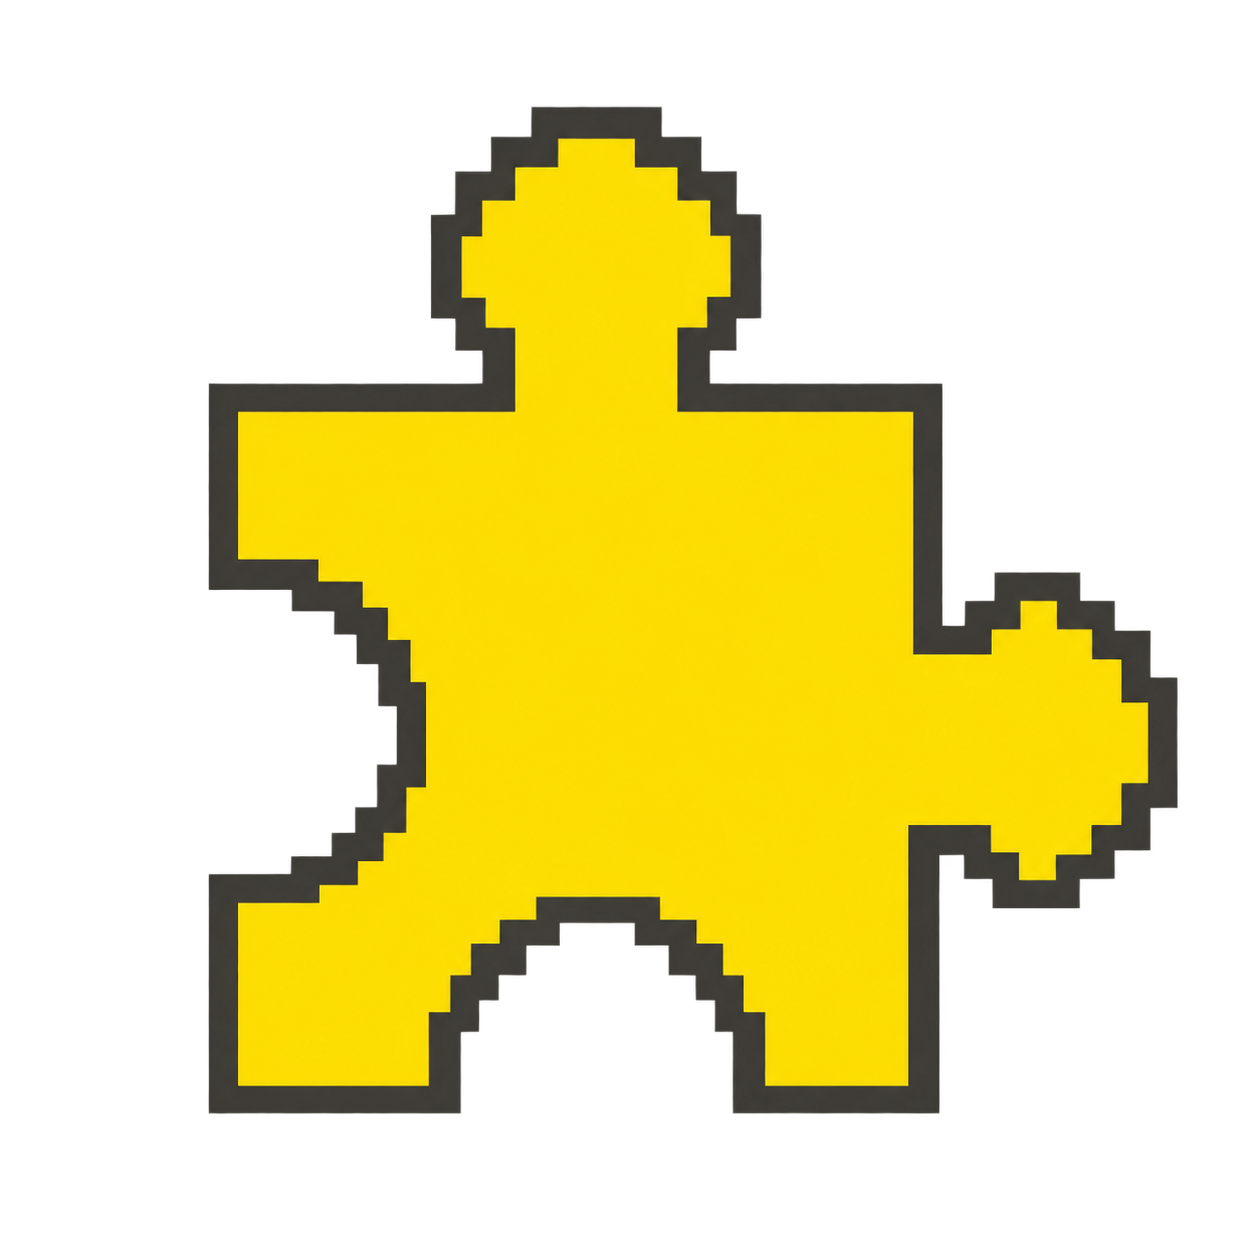
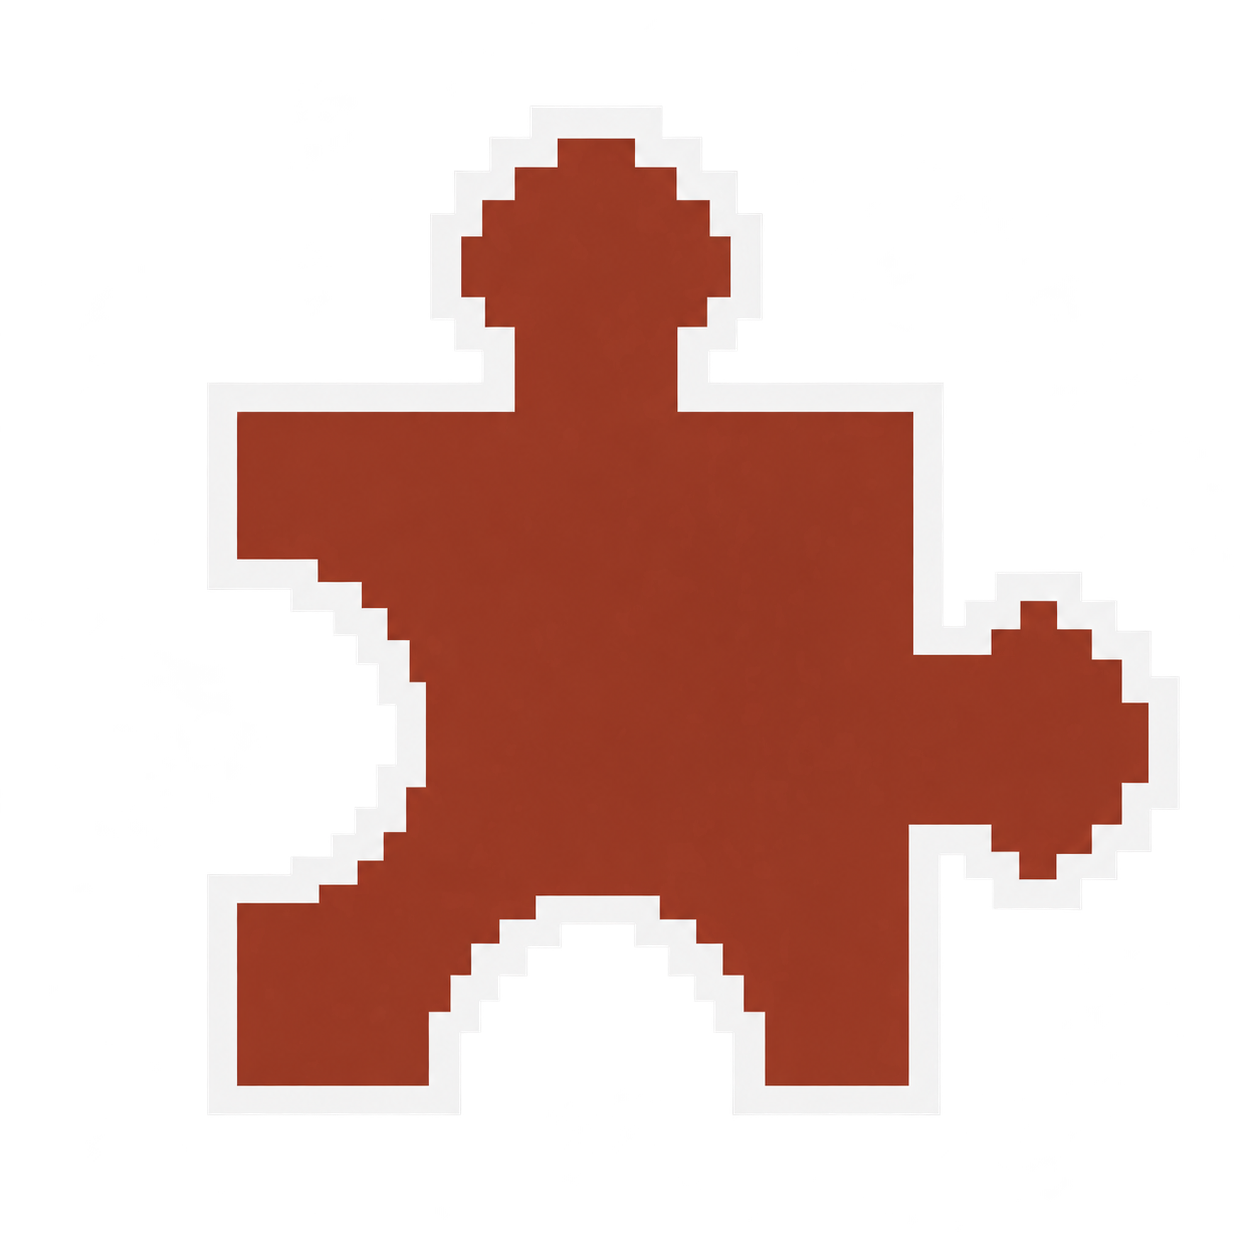
mejoras_visuales

diff --git a/juego.html b/juego.html
@@ -9,11 +9,11 @@
   <link href="https://fonts.googleapis.com/css2?family=Press+Start+2P&display=swap" rel="stylesheet">
   <style>
     :root {
-      --ink: #12110f;
-      --panel: #141311;
-      --cream: #f4f0e6;
-      --dim: #a39e93;
-      --line: rgba(244, 240, 230, 0.16);
+      --ink: #F5F5F5;
+      --panel: #F5F5F5;
+      --cream: #45322E;
+      --dim: rgba(69, 50, 46, 0.62);
+      --line: rgba(69, 50, 46, 0.18);
       --yellow: #f0d430;
     }
 
@@ -73,12 +73,15 @@
 
     .lives { display: flex; gap: 6px; flex: none; align-items: center; }
 
-    .lives img {
+    .heart {
       width: 28px;
       height: 28px;
-      object-fit: contain;
-      image-rendering: pixelated;
+      flex: none;
       display: block;
+      background-color: #45322E;
+      -webkit-mask: var(--icon) center / contain no-repeat;
+      mask: var(--icon) center / contain no-repeat;
+      image-rendering: pixelated;
     }
 
     .counters { display: flex; gap: 8px; flex: none; }
@@ -112,7 +115,7 @@
     #world {
       position: relative;
       overflow: hidden;
-      background: #3a3a3a;
+      background: #F5F5F5;
       touch-action: none;
     }
 
@@ -132,6 +135,7 @@
       left: 0;
       width: 100%;
       height: 100%;
+      opacity: 0.55;
       background-repeat: no-repeat;
       background-size: 100% 100%;
       background-position: left bottom;
@@ -198,7 +202,13 @@
 
     .btn.ghost { background: transparent; color: var(--cream); }
 
-    .btn:disabled { opacity: 0.35; cursor: default; }
+    .btn:disabled {
+      opacity: 1;
+      cursor: default;
+      background: rgba(69, 50, 46, 0.16);
+      color: rgba(69, 50, 46, 0.45);
+      border-color: rgba(69, 50, 46, 0.2);
+    }
 
     .icon-btn { width: 48px; height: 48px; padding: 0; }
 
@@ -209,7 +219,7 @@
       display: none;
       align-items: center;
       justify-content: center;
-      background: rgba(12, 11, 10, 0.62);
+      background: rgba(69, 50, 46, 0.28);
       padding: 20px;
     }
 
@@ -272,7 +282,7 @@
       .stage { flex: 1; }
       .topbar h1 { font-size: 8px; }
       .counters { width: 100%; justify-content: flex-end; }
-      .lives img { width: 22px; height: 22px; }
+      .heart { width: 22px; height: 22px; }
       #summary table { font-size: 7px; }
       .counter { min-width: 0; grid-template-columns: 26px auto; padding: 4px 6px; }
       .counter img { width: 26px; height: 26px; }
@@ -296,9 +306,9 @@
       <div class="stage">
         <h1 id="stage-name">Publicidad y Turismo</h1>
         <div class="lives" id="lives" aria-label="3 vidas">
-          <img src="assets/vidas/vida.png" alt="">
-          <img src="assets/vidas/vida.png" alt="">
-          <img src="assets/vidas/vida.png" alt="">
+          <span class="heart" style="--icon: url('assets/vidas/vida.png')"></span>
+          <span class="heart" style="--icon: url('assets/vidas/vida.png')"></span>
+          <span class="heart" style="--icon: url('assets/vidas/vida.png')"></span>
         </div>
       </div>
       <div class="counters">
@@ -710,8 +720,8 @@
     }
 
     function setLives() {
-      document.querySelectorAll("#lives img").forEach((icon, index) => {
-        icon.src = asset(index < state.lives ? "assets/vidas/vida.png" : "assets/vidas/sin_vida.png");
+      document.querySelectorAll("#lives .heart").forEach((icon, index) => {
+        icon.style.setProperty("--icon", `url("${asset(index < state.lives ? "assets/vidas/vida.png" : "assets/vidas/sin_vida.png")}")`);
       });
       document.getElementById("lives").setAttribute("aria-label", `${state.lives} vidas`);
     }
